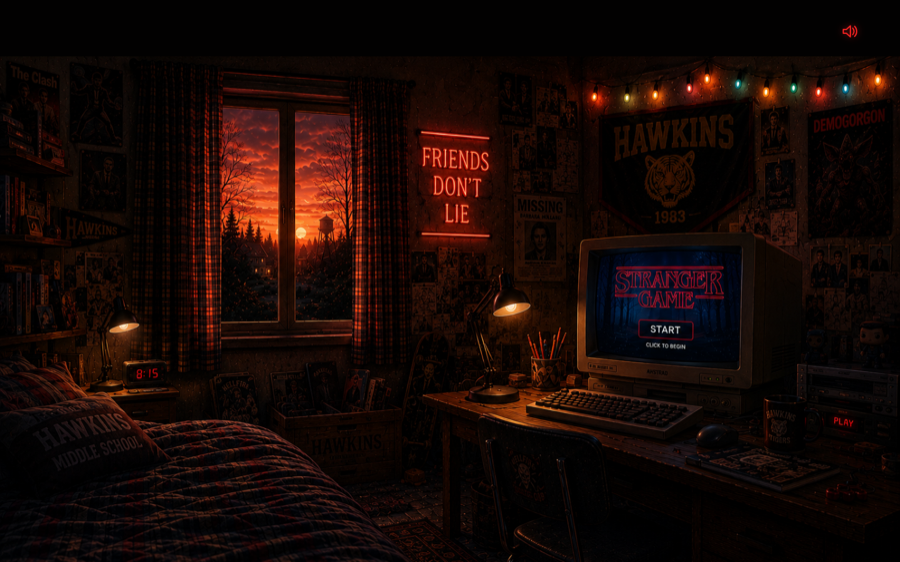
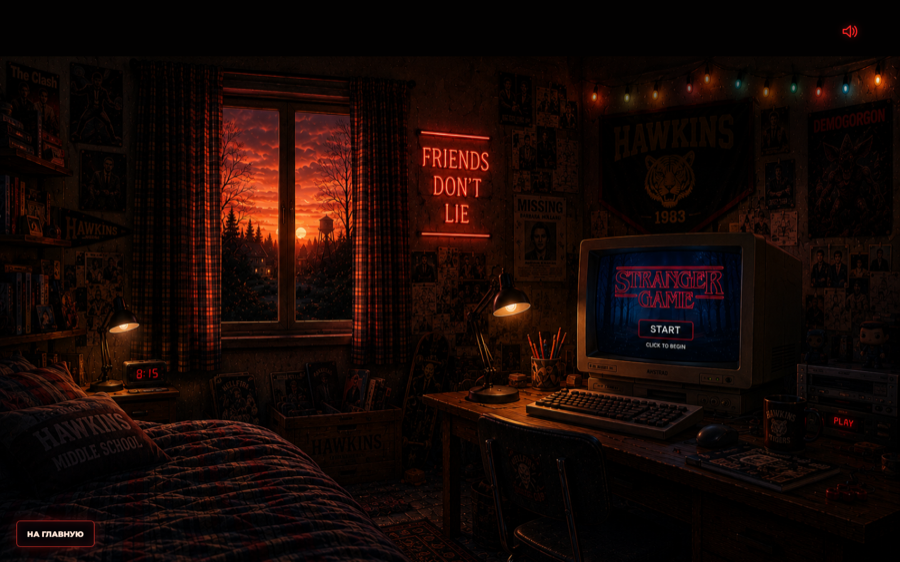
Add portfolio return link and dim string lights

Changed region(s): [[0.6533, 0.121, 0.9644, 0.3025], [0.0311, 0.9075, 0.0933, 0.9982], [0.7778, 0.2117, 0.8089, 0.242]]

diff --git a/src/styles/room.css b/src/styles/room.css
@@ -39,6 +39,21 @@
   pointer-events: none;
 }
 
+.reference-room-stage::after {
+  position: absolute;
+  left: 62.5%;
+  top: 7.5%;
+  z-index: 1;
+  width: 36.8%;
+  height: 23.5%;
+  content: "";
+  pointer-events: none;
+  background:
+    radial-gradient(ellipse at 46% 50%, rgba(0, 0, 0, 0.42) 0%, rgba(0, 0, 0, 0.34) 46%, rgba(0, 0, 0, 0) 78%),
+    linear-gradient(90deg, rgba(0, 0, 0, 0), rgba(0, 0, 0, 0.28) 18%, rgba(0, 0, 0, 0.32) 68%, rgba(0, 0, 0, 0));
+  mix-blend-mode: multiply;
+}
+
 .game-room-touch.game-room-landscape:not(.game-room-expanded)::before {
   position: fixed;
   inset: 0;
@@ -58,6 +73,47 @@
   z-index: 6;
   height: clamp(78px, 10vh, 96px);
   background: #020101;
+}
+
+.portfolio-return-link {
+  position: fixed;
+  left: calc(26px + env(safe-area-inset-left));
+  bottom: calc(24px + env(safe-area-inset-bottom));
+  z-index: 7;
+  min-height: 40px;
+  display: inline-flex;
+  align-items: center;
+  justify-content: center;
+  padding: 0 16px;
+  border: 1px solid rgba(255, 55, 45, 0.74);
+  border-radius: 6px;
+  background: rgba(5, 3, 5, 0.72);
+  color: #ffe4d5;
+  font-size: 0.76rem;
+  font-weight: 900;
+  letter-spacing: 0;
+  text-decoration: none;
+  text-transform: uppercase;
+  box-shadow:
+    0 0 18px rgba(255, 35, 35, 0.28),
+    inset 0 0 16px rgba(255, 35, 35, 0.12);
+  backdrop-filter: blur(5px);
+  -webkit-tap-highlight-color: transparent;
+}
+
+.portfolio-return-link:hover,
+.portfolio-return-link:focus-visible,
+.portfolio-return-link:active {
+  color: #fff7f4;
+  outline: none;
+  background: rgba(86, 12, 14, 0.9);
+  box-shadow:
+    0 0 26px rgba(255, 35, 35, 0.48),
+    inset 0 0 20px rgba(255, 35, 35, 0.22);
+}
+
+.portfolio-return-link:active {
+  transform: translateY(1px);
 }
 
 .orientation-prompt {

diff --git a/src/components/RoomScene.jsx b/src/components/RoomScene.jsx
@@ -213,6 +213,13 @@ const RoomScene = () => {
           onGameLoad={() => setIsGameLoaded(true)}
         />
       </div>
+      <a
+        className="portfolio-return-link"
+        href="https://kalyakin.page.gd/portfolio"
+        aria-label="На главную в портфолио сайта"
+      >
+        На главную
+      </a>
       <div className="reference-header-mask" aria-hidden="true" />
       {isTouchLayout && orientation === 'portrait' && !hasStarted && (
         <div className="orientation-prompt" role="status">

diff --git a/src/styles/responsive.css b/src/styles/responsive.css
@@ -48,6 +48,10 @@
     display: none;
   }
 
+  .game-room-touch.game-room-expanded .portfolio-return-link {
+    display: none;
+  }
+
   .game-room-touch.game-room-expanded .game-session-controls {
     top: calc(12px + env(safe-area-inset-top));
     left: calc(12px + env(safe-area-inset-left));
@@ -98,6 +102,10 @@
   }
 
   .game-room-touch.game-room-expanded .reference-header-mask {
+    display: none;
+  }
+
+  .game-room-touch.game-room-expanded .portfolio-return-link {
     display: none;
   }
 
